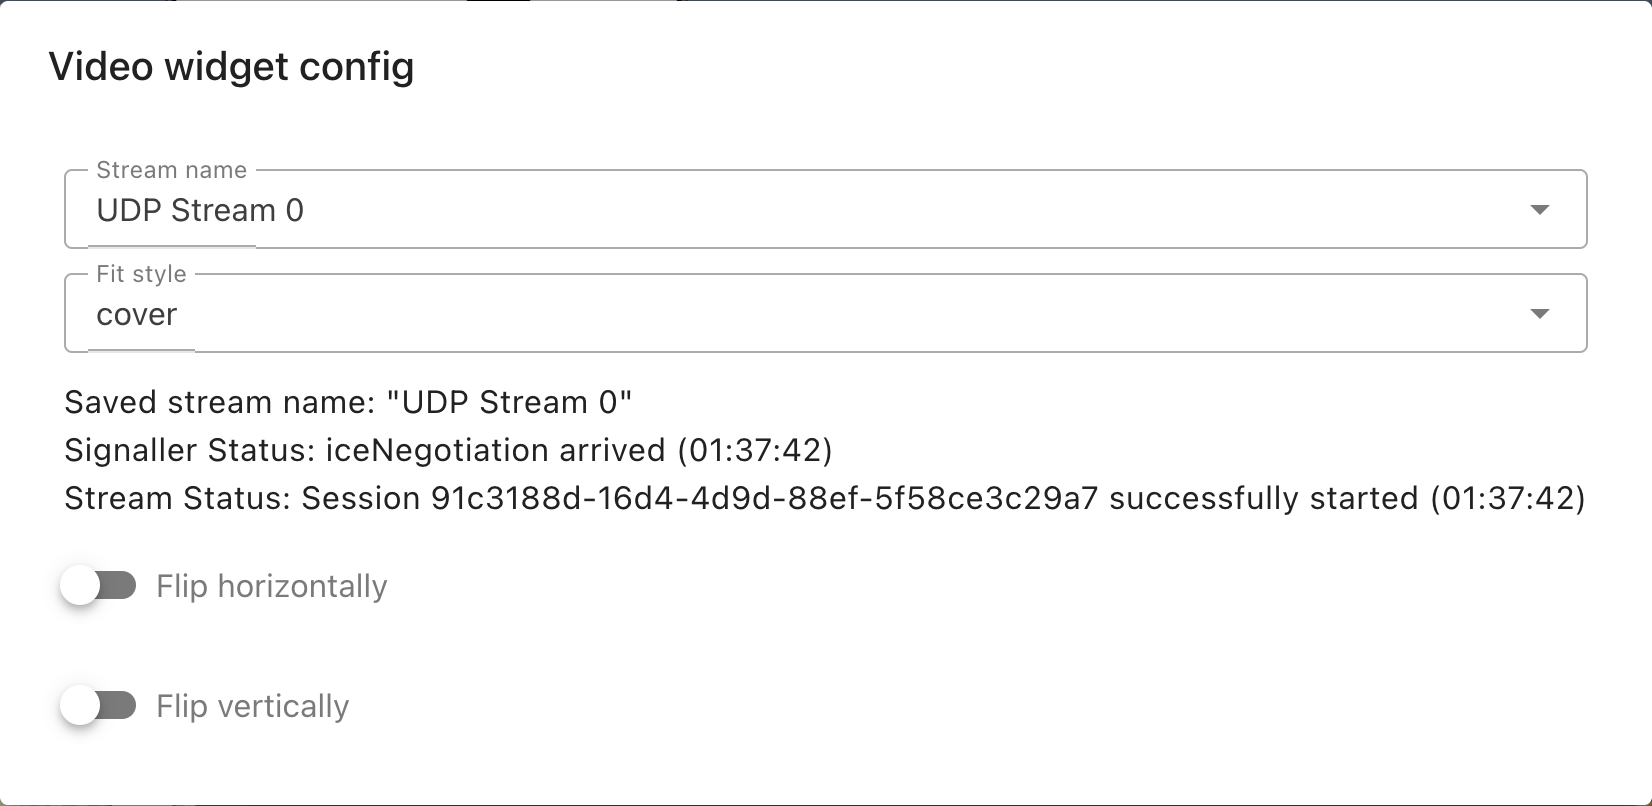
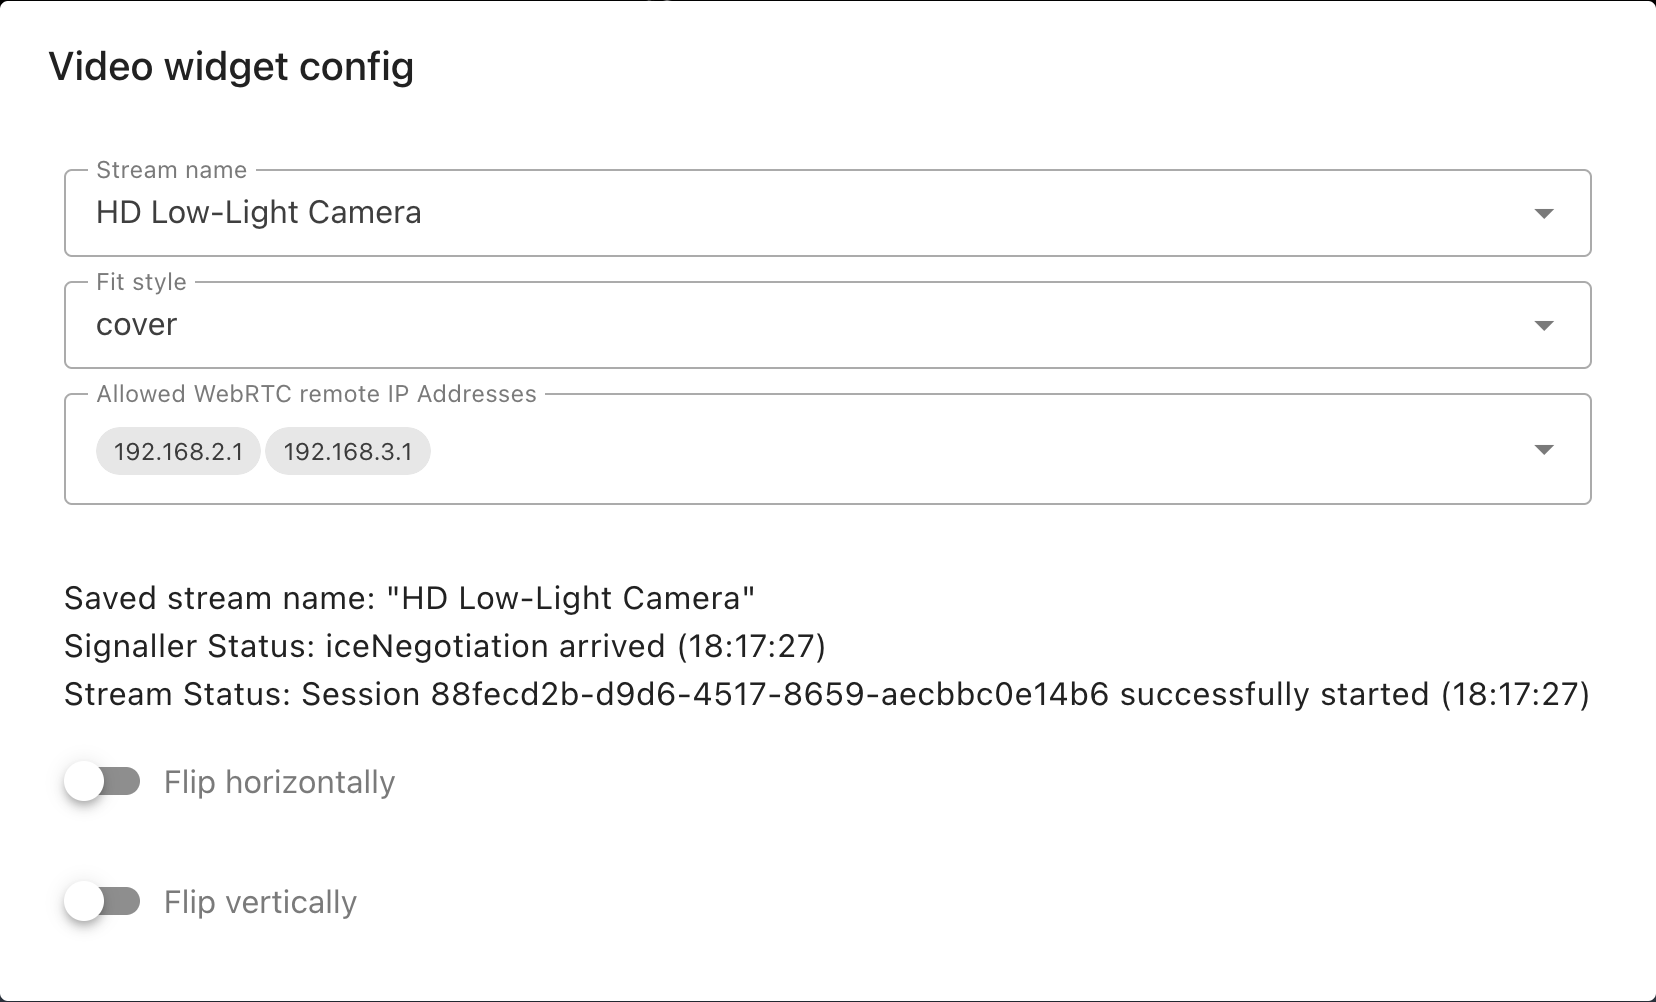
advanced-usage: update video widget
Documents bluerobotics/cockpit#571

diff --git a/advanced-usage/index.md b/advanced-usage/index.md
@@ -187,9 +187,9 @@ There are buttons to
 In future it will be possible to set the current vehicle position, and click to guide the vehicle to new
 positions.
 
-##### Video
+##### Video Player
 
-The video widget displays an available WebRTC video stream. BlueOS uses the 
+The video player widget displays an available WebRTC video stream. BlueOS uses the 
 [MAVLink Camera Manager](https://github.com/mavlink/mavlink-camera-manager) to automatically create a WebRTC 
 stream for applicable video streams.
 {{ easy_image(src="video-widget", width=400, center=true) }}
@@ -205,7 +205,12 @@ off the sides or top+bottom if they extend beyond the widget boundaries
 adding transparent padding at the sides / above+below as necessary
 {{ easy_image(src="video-config", width=600, center=true) }}
 
-Video recording is possible using a [mini widget](#mini-widgets).
+It is also possible to select the video source IP, which is recommended especially if there are multiple
+available connection routes (e.g. if there is a wired route through a tether, as well as a wireless connection,
+you should select the tether IP and remove the wireless one to avoid video stuttering from transmission over wifi).
+
+Video recording is possible using a [mini widget](#mini-widgets), and directly records the incoming stream
+(not the scaled and cropped display of the widget).
 
 ##### Mini Widget Bar
 
